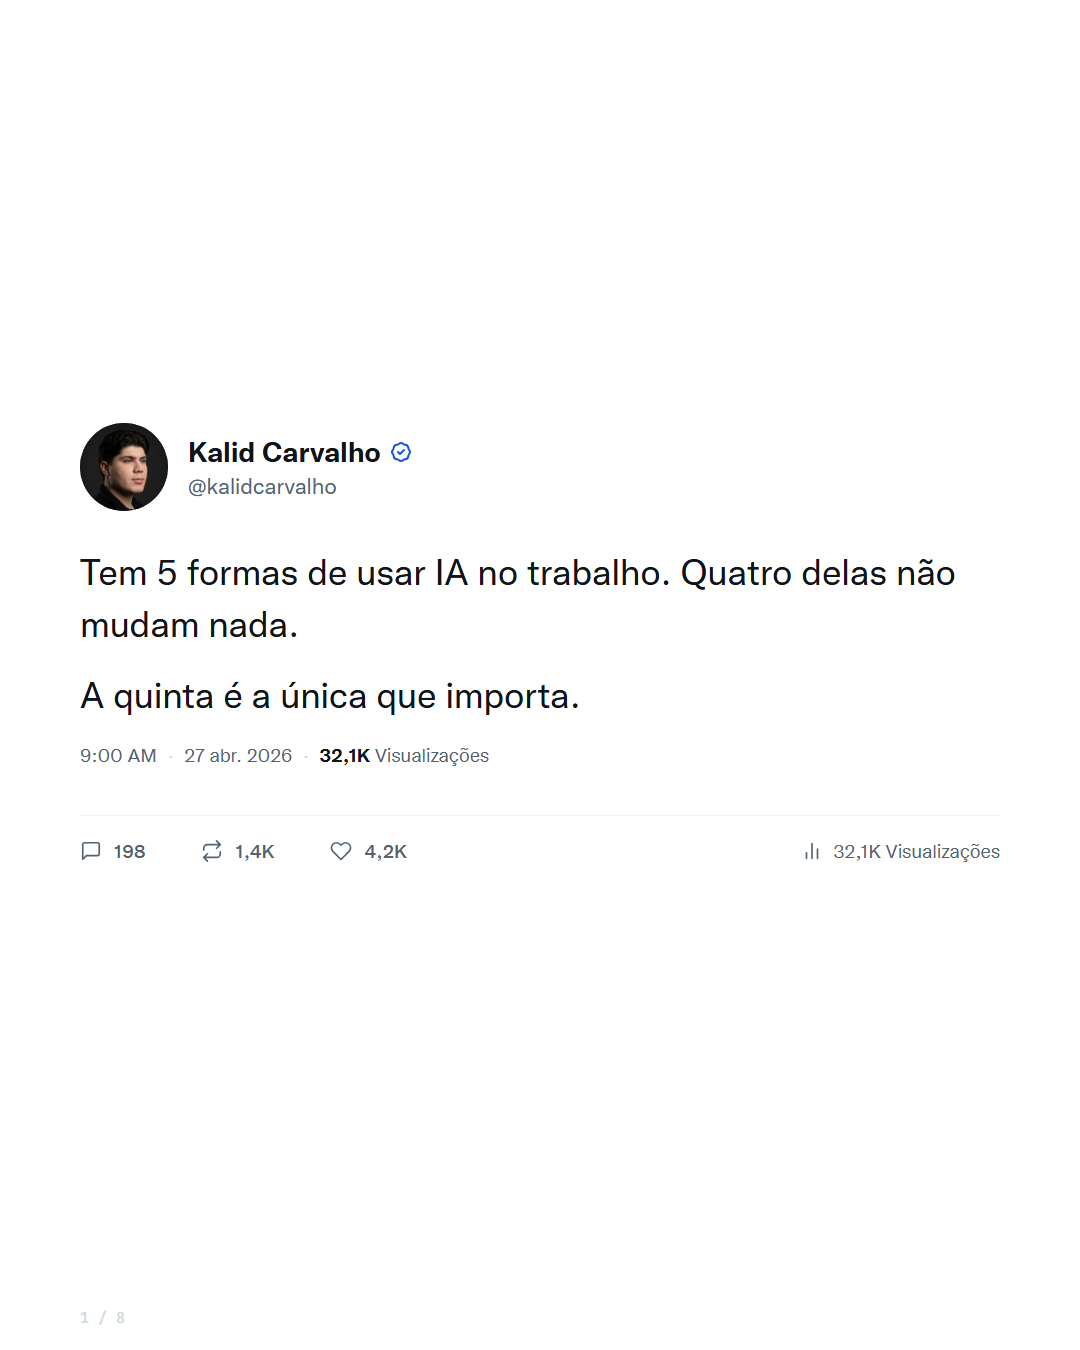
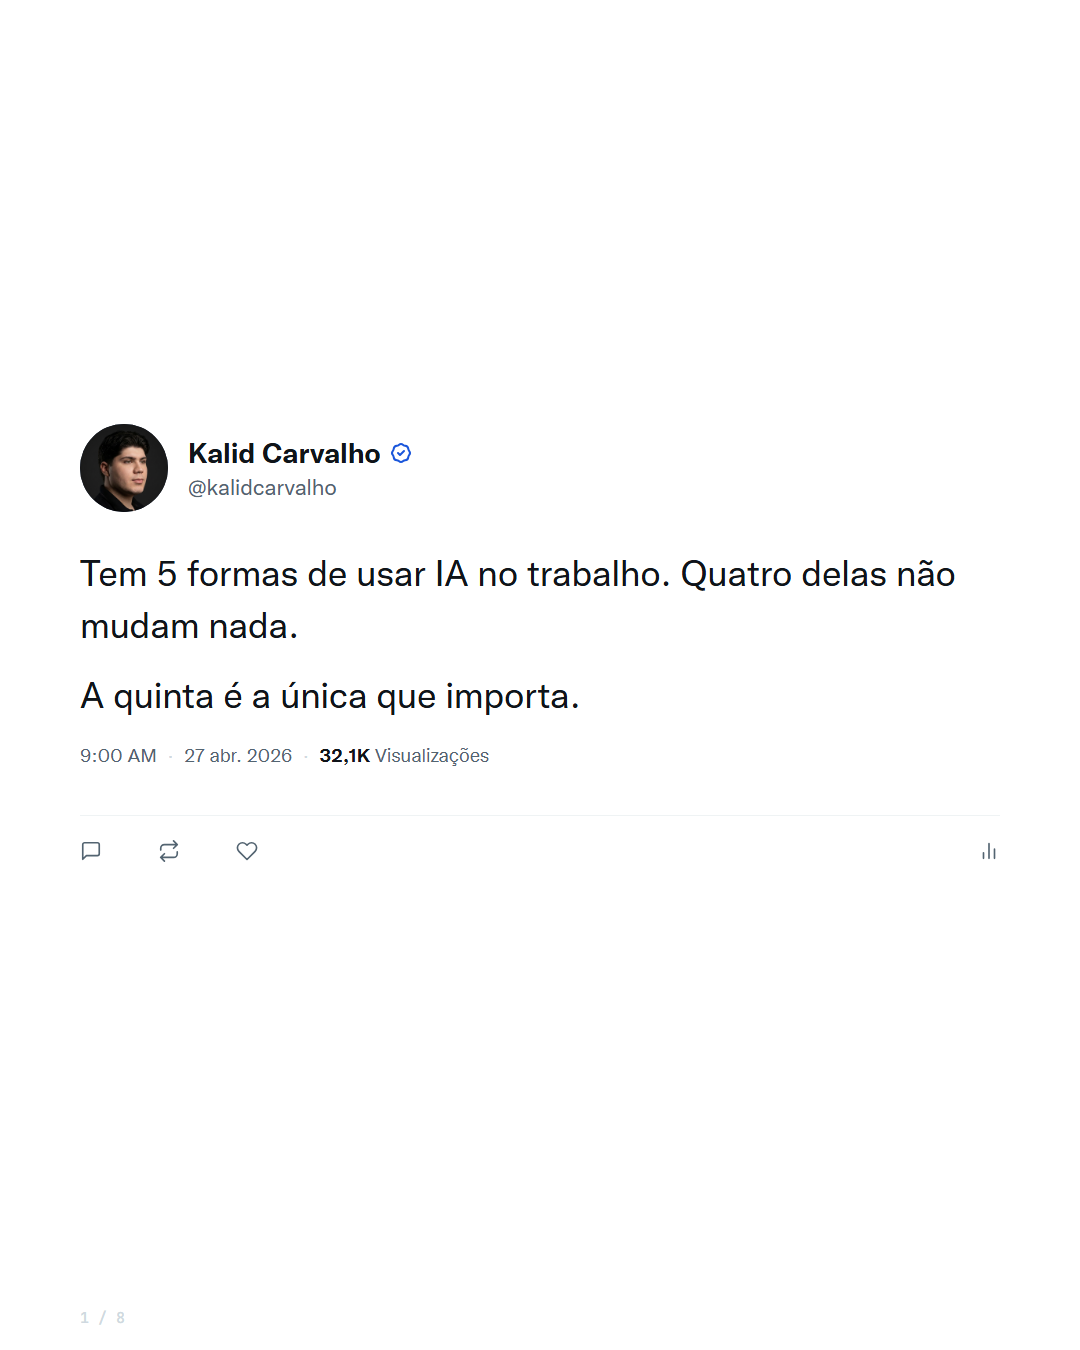
auto-sync: 2026-04-27 01:16

diff --git a/conteudo/kalidcarvalho/carrosseis/2026-04-27/5-formas-ia/instagram/slide-01.html b/conteudo/kalidcarvalho/carrosseis/2026-04-27/5-formas-ia/instagram/slide-01.html
@@ -53,10 +53,10 @@ body { width: 1080px; height: 1350px; background: #FFFFFF; font-family: 'Chirp',
     <div class="tweet-timestamp">9:00 AM <span>·</span> 27 abr. 2026 <span>·</span> <strong style="color:#0F1419;">32,1K</strong> Visualizações</div>
   </div>
   <div class="metrics">
-    <div class="metric"><svg viewBox="0 0 24 24"><path d="M21 15a2 2 0 0 1-2 2H7l-4 4V5a2 2 0 0 1 2-2h14a2 2 0 0 1 2 2z" stroke-linecap="round" stroke-linejoin="round"/></svg><span class="metric-val">198</span></div>
-    <div class="metric"><svg viewBox="0 0 24 24"><path d="M17 1l4 4-4 4M3 11V9a4 4 0 0 1 4-4h14M7 23l-4-4 4-4M21 13v2a4 4 0 0 1-4 4H3" stroke-linecap="round" stroke-linejoin="round"/></svg><span class="metric-val">1,4K</span></div>
-    <div class="metric"><svg viewBox="0 0 24 24"><path d="M20.84 4.61a5.5 5.5 0 0 0-7.78 0L12 5.67l-1.06-1.06a5.5 5.5 0 0 0-7.78 7.78l1.06 1.06L12 21.23l7.78-7.78 1.06-1.06a5.5 5.5 0 0 0 0-7.78z" stroke-linecap="round" stroke-linejoin="round"/></svg><span class="metric-val">4,2K</span></div>
-    <div class="metric-views"><svg viewBox="0 0 24 24"><path d="M18 20V10M12 20V4M6 20v-6" stroke-linecap="round" stroke-linejoin="round"/></svg><span>32,1K Visualizações</span></div>
+    <div class="metric"><svg viewBox="0 0 24 24"><path d="M21 15a2 2 0 0 1-2 2H7l-4 4V5a2 2 0 0 1 2-2h14a2 2 0 0 1 2 2z" stroke-linecap="round" stroke-linejoin="round"/></svg></div>
+    <div class="metric"><svg viewBox="0 0 24 24"><path d="M17 1l4 4-4 4M3 11V9a4 4 0 0 1 4-4h14M7 23l-4-4 4-4M21 13v2a4 4 0 0 1-4 4H3" stroke-linecap="round" stroke-linejoin="round"/></svg></div>
+    <div class="metric"><svg viewBox="0 0 24 24"><path d="M20.84 4.61a5.5 5.5 0 0 0-7.78 0L12 5.67l-1.06-1.06a5.5 5.5 0 0 0-7.78 7.78l1.06 1.06L12 21.23l7.78-7.78 1.06-1.06a5.5 5.5 0 0 0 0-7.78z" stroke-linecap="round" stroke-linejoin="round"/></svg></div>
+    <div class="metric-views"><svg viewBox="0 0 24 24"><path d="M18 20V10M12 20V4M6 20v-6" stroke-linecap="round" stroke-linejoin="round"/></svg></div>
   </div>
 </div>
 <div class="bottom-bar"><span class="progress">1 / 8</span></div>
